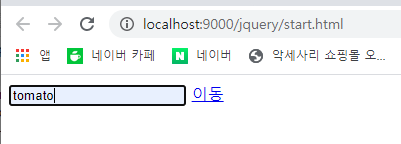
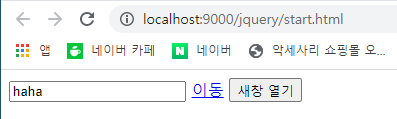
GitBook: [master] one page and 4 assets modified

diff --git a/1-days/untitled-13/jsp-html-start.html-move.jsp.md b/1-days/untitled-13/jsp-html-start.html-move.jsp.md
@@ -31,7 +31,7 @@
 
 ## 2단계 : get방식으로 요청 유지하기 
 
-![](../../.gitbook/assets/4%20%2818%29.png)
+![](../../.gitbook/assets/4%20%2819%29.png)
 
 ```markup
 <!DOCTYPE html>
@@ -52,7 +52,7 @@
 </html>
 ```
 
-![](../../.gitbook/assets/5%20%2813%29.png)
+![](../../.gitbook/assets/5%20%2814%29.png)
 
 ```markup
 <%@ page language="java" contentType="text/html; charset=UTF-8"
@@ -114,6 +114,10 @@
 ### 
 
 ## 4단계 : 새 창 팝업창으로 띄우기
+
+![&#xC0C8;&#xCC3D; &#xC5F4;&#xAE30; &#xBC84;&#xD2BC;&#xC744; &#xB204;&#xB974;&#xBA74;](../../.gitbook/assets/4%20%2818%29.png)
+
+![&#xD31D;&#xC5C5;&#xCC3D;&#xC73C;&#xB85C; &#xD574;&#xB2F9; &#xD30C;&#xC77C;&#xC774; &#xB744;&#xC6CC;&#xC9C4;&#xB2E4;](../../.gitbook/assets/5%20%2813%29.png)
 
 ```markup
 <!DOCTYPE html>
